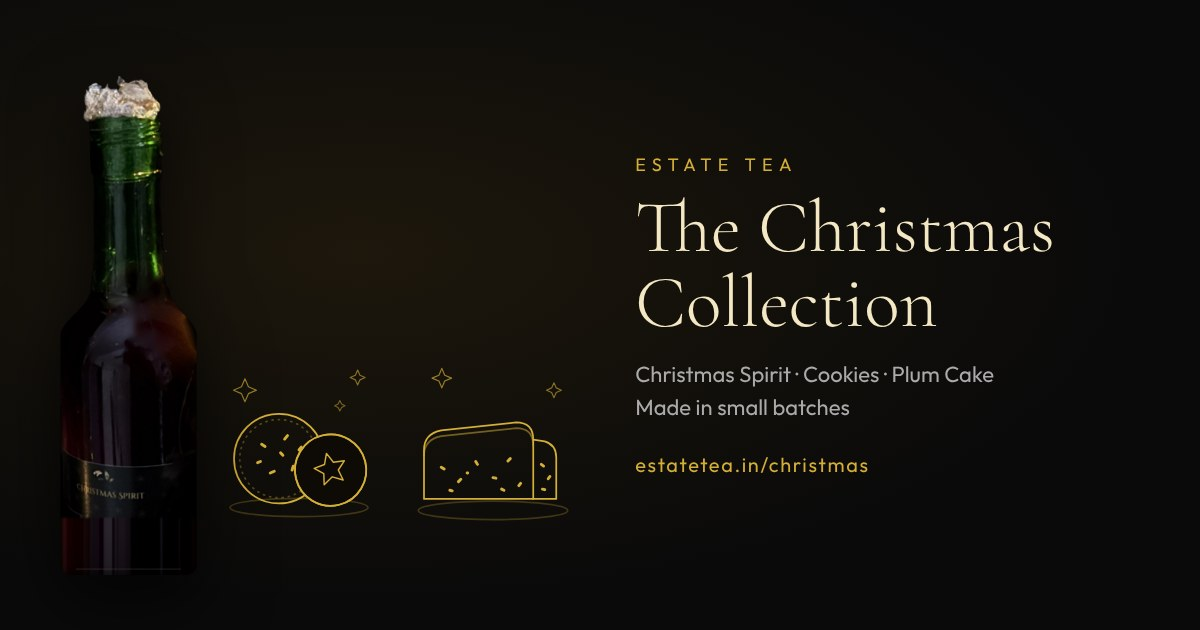
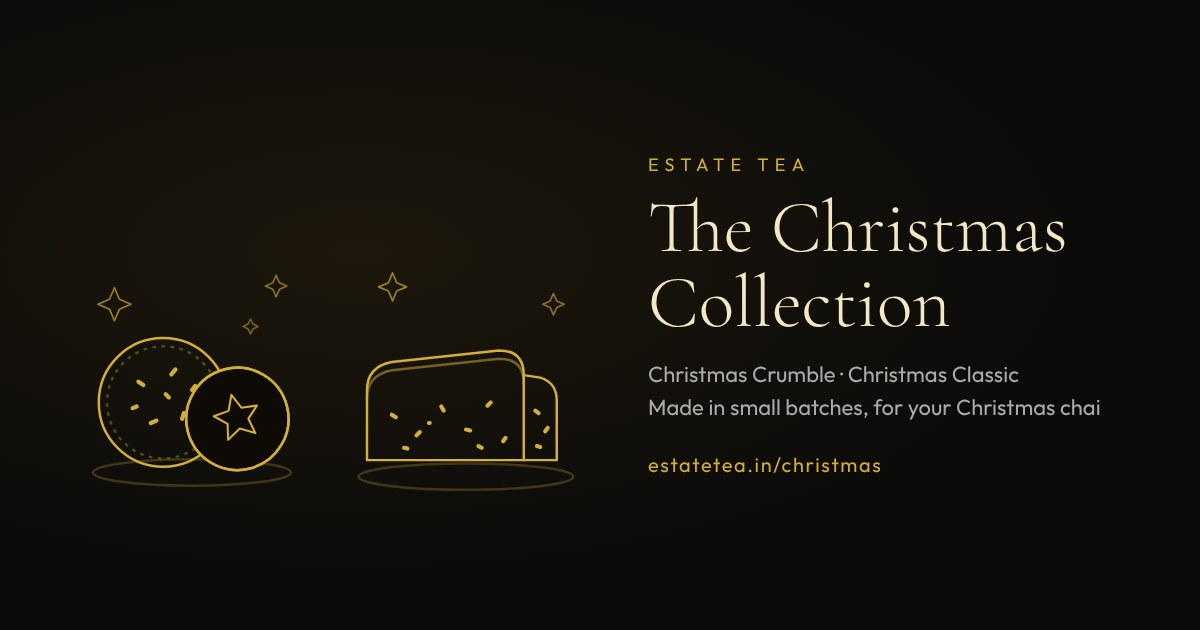
Christmas Crumble and Christmas Classic on the share card, page description and coming-soon text
Claude-Session: https://claude.ai/code/session_01KpQxHJeupQZ3Xn5y9Ubfnt

diff --git a/frontend/src/components/Hampers.jsx b/frontend/src/components/Hampers.jsx
@@ -67,7 +67,7 @@ export default function Hampers({ userInfo, navigate }) {
         <div className="p-6 sm:p-8">
           <p className="text-[11px] uppercase tracking-[.35em] text-[#D4AF37]">Christmas</p>
           <h1 className="mt-3 text-3xl sm:text-4xl font-light">Estate Noel Collection</h1>
-          <p className="mt-3 text-gray-300 leading-relaxed">This Christmas, make up your own gift: a festive drink, cookies, plum cake and our premium tea, each sold on its own, with premium gift boxes to put them in.</p>
+          <p className="mt-3 text-gray-300 leading-relaxed">This Christmas, make up your own gift: our Christmas Crumble cookies, Christmas Classic plum cake and our premium tea, each sold on its own, with premium gift boxes to put them in.</p>
           <p className="mt-5 rounded-xl px-4 py-3 text-sm border border-[#D4AF37]/25 bg-[#D4AF37]/[.06] text-[#f0d58b]">Coming soon.</p>
           <a href={WA + encodeURIComponent('Hi Brew! I would like to know about the Estate Noel Christmas collection.')} target="_blank" rel="noopener noreferrer" className="mt-4 inline-flex items-center gap-2 text-sm text-[#D4AF37] hover:underline"><MessageCircle className="w-4 h-4" />Ask Brew about it</a>
         </div>

diff --git a/frontend/src/components/CollectionSettings.jsx b/frontend/src/components/CollectionSettings.jsx
@@ -27,7 +27,7 @@ function ItemForm({ start, onSave, onCancel, busy }) {
   };
   return <div className="mt-3 space-y-2 rounded-2xl border border-white/[.08] bg-black/30 p-3">
     <div className="grid grid-cols-2 gap-2">
-      <input className={box} value={f.name} onChange={e => set('name', e.target.value)} placeholder="Name, e.g. Plum Cake" />
+      <input className={box} value={f.name} onChange={e => set('name', e.target.value)} placeholder="Name, e.g. Christmas Classic" />
       <input className={box} value={f.size} onChange={e => set('size', e.target.value)} placeholder="Size, e.g. 500 g" />
       <input className={box} value={f.price} onChange={e => set('price', e.target.value)} inputMode="decimal" placeholder="Price ₹ (GST incl.)" />
       <select className={box} value={f.gst_rate} onChange={e => set('gst_rate', e.target.value)}>{[0, 5, 12, 18, 28].map(g => <option key={g} value={g}>GST {g}%</option>)}</select>

diff --git a/frontend/src/app/christmas/page.js b/frontend/src/app/christmas/page.js
@@ -3,7 +3,7 @@ import SiteApp from '@/components/SiteApp';
 // estatetea.in/christmas: the link for adverts. Opens straight on the Christmas collection (customers see "coming soon"
 // until it's public; the owner, signed in with his WhatsApp number, sees the real page), with a proper share preview.
 const TITLE = 'The Christmas Collection · Estate Tea';
-const DESCRIPTION = 'Christmas Spirit, Christmas cookies and plum cake from Estate Tea, made in small batches. Order online in Bangalore.';
+const DESCRIPTION = 'Christmas Crumble cookies and Christmas Classic plum cake from Estate Tea, made in small batches. Order online in Bangalore.';
 export const metadata = {
   metadataBase: new URL('https://estatetea.in'),
   title: TITLE,
